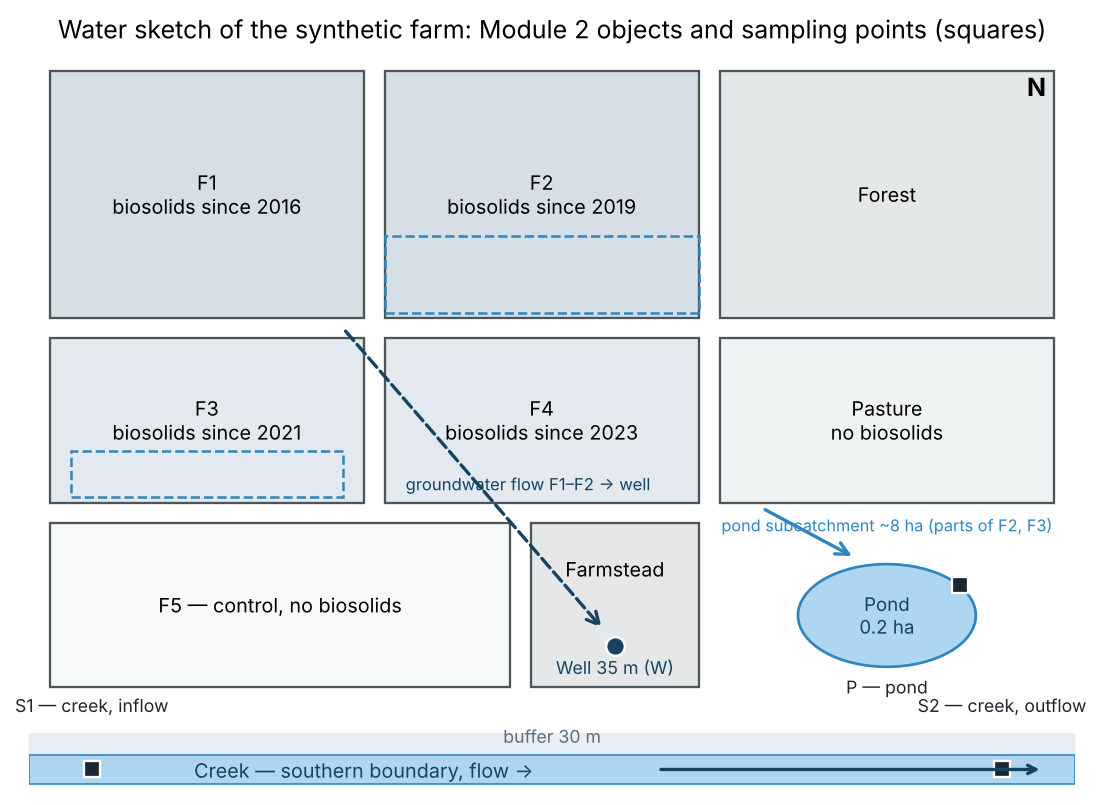
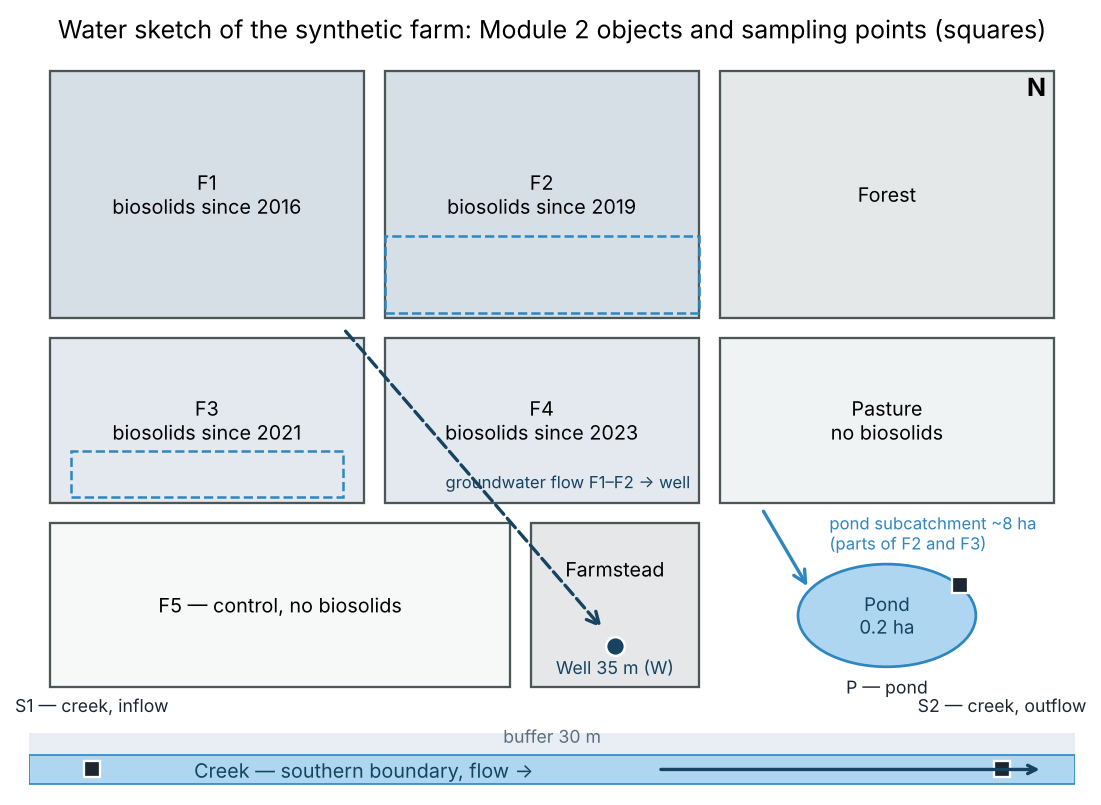
English water sketch: labels clear of arrows
Claude-Session: https://claude.ai/code/session_01JbbLFxdc7EmwH2SxEfqx9S

Changed region(s): [[0.6485, 0.6211, 0.9573, 0.7453], [0.3706, 0.5901, 0.6176, 0.6211]]

diff --git a/examples/make_figs_en.py b/examples/make_figs_en.py
@@ -254,7 +254,7 @@ def module2_figures(d):
     ax.text(82, 17, "Pond\n0.2 ha", ha="center", va="center", fontsize=9, color="#154360")
     ax.add_patch(Rectangle((34, 46.5), 30, 7.5, fill=False, edgecolor="#2e86c1", ls="--", lw=1.2))
     ax.add_patch(Rectangle((4, 28.5), 26, 4.5, fill=False, edgecolor="#2e86c1", ls="--", lw=1.2))
-    ax.text(82, 25.2, "pond subcatchment ~8 ha (parts of F2, F3)", fontsize=7.8, color="#2e86c1", ha="center")
+    ax.text(76.5, 25.0, "pond subcatchment ~8 ha\n(parts of F2 and F3)", fontsize=8, color="#2e86c1", ha="left", va="center")
     ax.add_patch(Rectangle((0, 3.4), 100, 2.2, facecolor="#e8eef3", edgecolor="none"))
     ax.add_patch(Rectangle((0, 0.6), 100, 2.8, facecolor="#aed6f1", edgecolor="#2e86c1", lw=0.8))
     ax.annotate("", xy=(97, 2.0), xytext=(60, 2.0), arrowprops=dict(arrowstyle="->", color="#154360", lw=1.6))
@@ -268,8 +268,8 @@ def module2_figures(d):
     ax.plot(89, 20, marker="s", ms=8, mfc="#1b2631", mec="white", mew=1.1)
     ax.text(82, 9.4, "P — pond", fontsize=8.5, color="#1b2631", ha="center")
     ax.add_patch(FancyArrowPatch((30, 45), (55, 15.5), arrowstyle="->", mutation_scale=15, color="#154360", lw=1.6, ls="--"))
-    ax.text(36, 29.2, "groundwater flow F1–F2 → well", fontsize=8, color="#154360")
-    ax.add_patch(FancyArrowPatch((70, 27.5), (79, 22.6), arrowstyle="->", mutation_scale=15, color="#2e86c1", lw=1.6))
+    ax.text(63.2, 29.4, "groundwater flow F1–F2 → well", fontsize=8, color="#154360", ha="right")
+    ax.add_patch(FancyArrowPatch((70, 27.5), (74.6, 19.5), arrowstyle="->", mutation_scale=15, color="#2e86c1", lw=1.6))
     ax.text(96.3, 67.6, "N", fontsize=12, fontweight="bold", ha="center")
     ax.set_title("Water sketch of the synthetic farm: Module 2 objects and sampling points (squares)")
     save(fig, "fig2_water_map.png")
